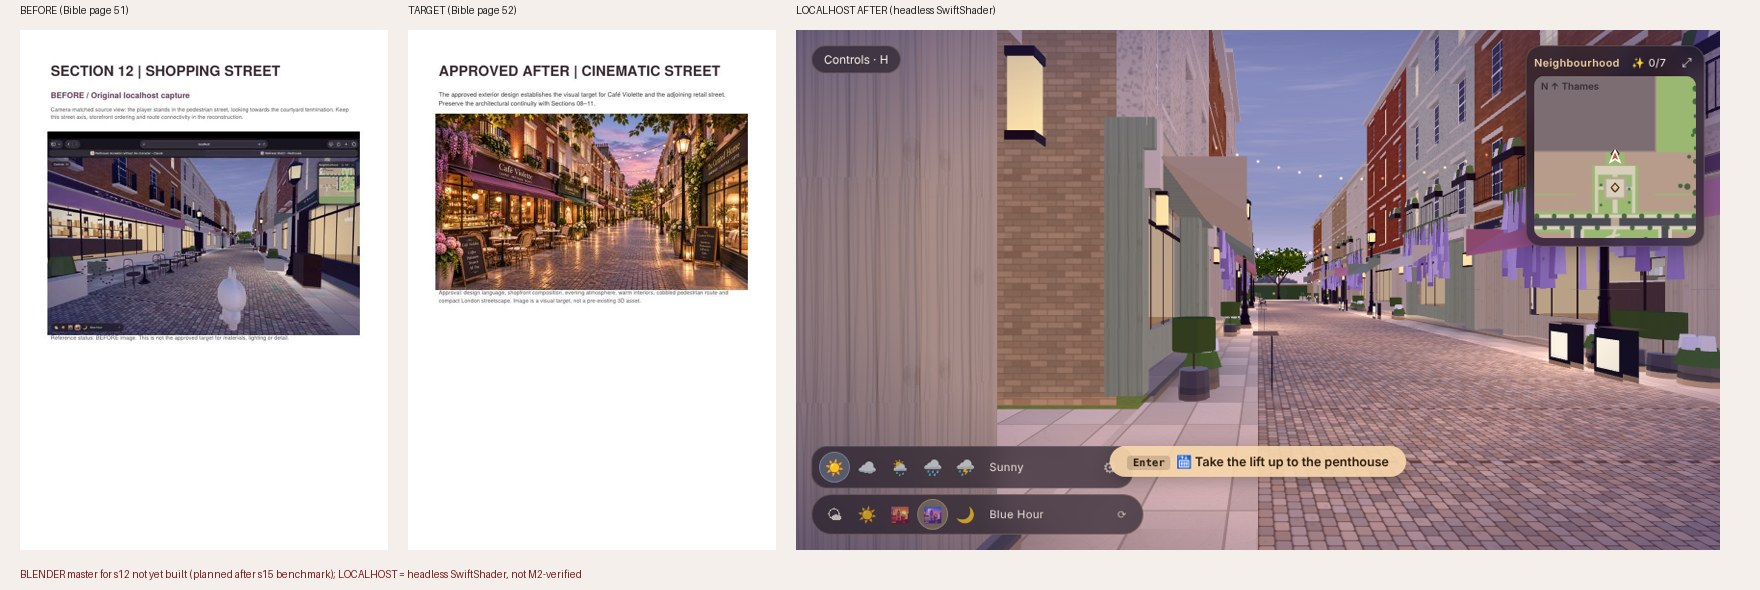
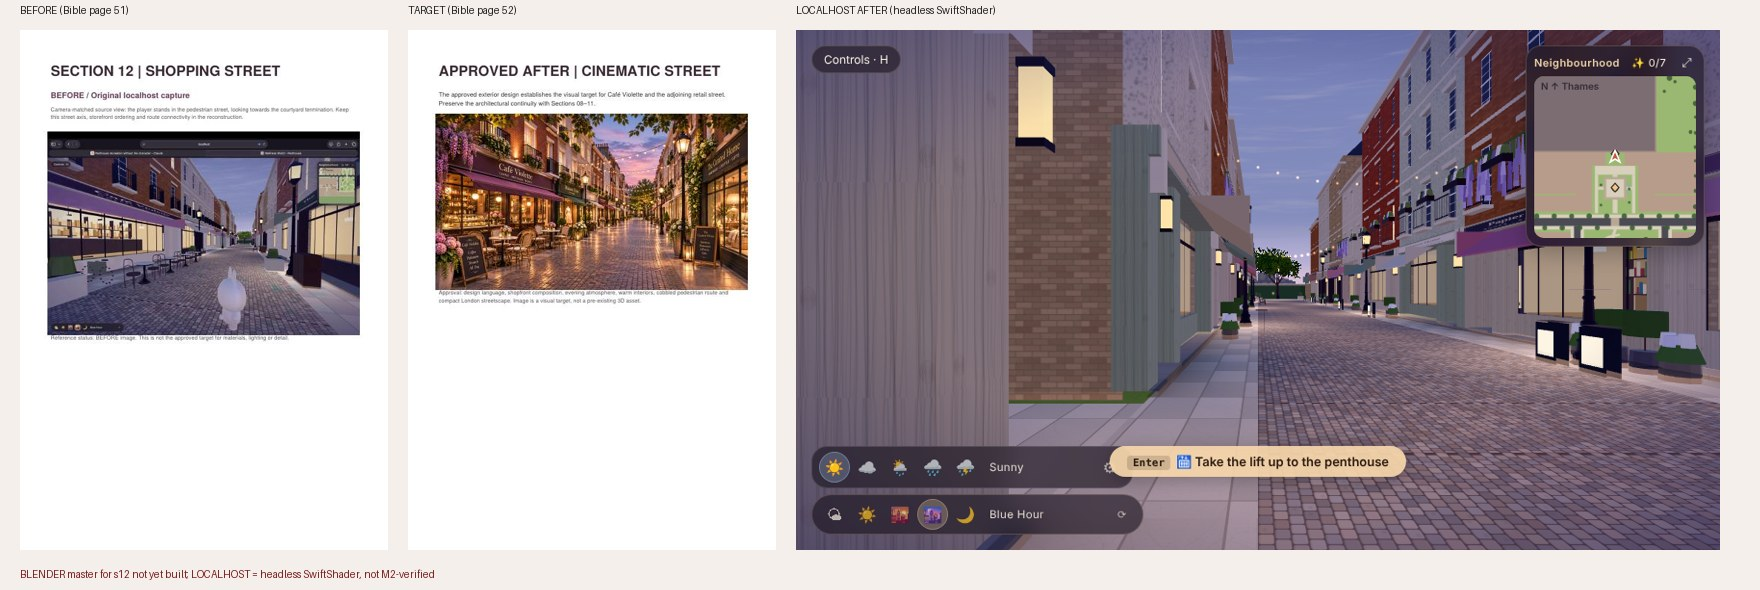
s10/s12: blue-hour evidence after wisteria correction
Claude-Session: https://claude.ai/code/session_017ZtboRbFUCo4FCo9fUW3pH

Changed region(s): [[0.4375, 0.0305, 1.0, 0.9458], [0.0938, 0.9458, 0.3125, 1.0], [0.9688, 0.1831, 1.0, 0.2441]]

diff --git a/docs/bible/S12_STATUS.md b/docs/bible/S12_STATUS.md
@@ -2,5 +2,5 @@
 Evidence: `evidence/s12_shopping_street.jpg` (BEFORE p.51 / TARGET p.52 / LOCALHOST blue hour, headless). Pose ≈ (-62, -85.2, 93.5) yaw 1.5708 (looking −x along the lane). Not claimed approved; not M2-verified.
 - Now uses Blender-baked sett/slab/brick/ashlar sets (cobbles show setts with joints and relief).
 - Present: string lights, awnings, café tables, planters, A-frame boards, facades with lit windows.
-- Wisteria curtains now hang over ~70% of shopfronts (lilac strands, headless-viewed; strands read slightly plank-like).
+- Wisteria curtains now drape above the first-floor balconies on ~55% of shop buildings (raised so shop signs stay readable, per s10 target; strands still plank-like).
 - Gaps vs p.52: shopfront interiors shallow, no Blender master yet, trees at the lane end sparse, no bloom on lamps.
